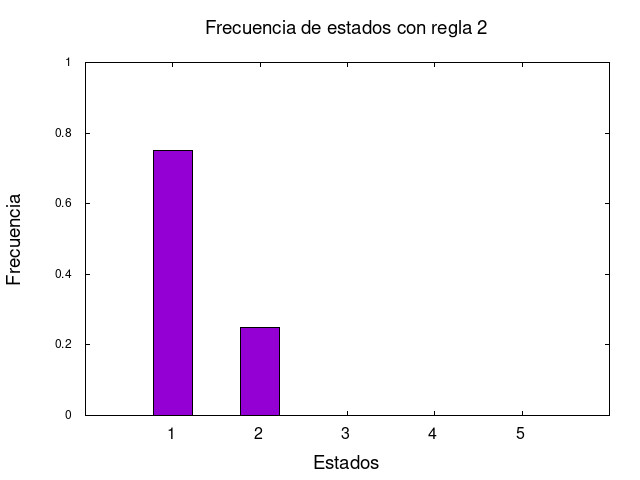
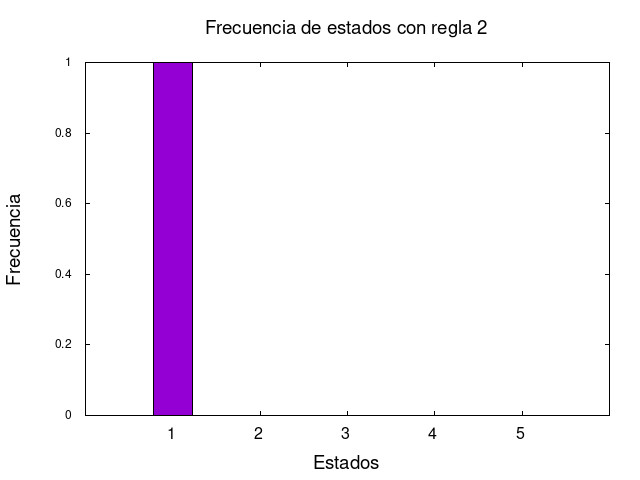
Practica 2. Parte 1. Graficas sin conocer estado actualizadas

Changed region(s): [[0.2188, 0.125, 0.3125, 0.3125], [0.375, 0.6562, 0.4375, 0.875]]

diff --git a/Practica 2/src/estampadora.cpp b/Practica 2/src/estampadora.cpp
@@ -285,10 +285,10 @@ int main (int argc, char *argv[])
             mantenimiento(regla, j+1);
             // 2. Estampar
             estampar();
-            // 3. Calcular siguiente estado
-            estado_actual = siguiente_estado();
-            // 4. Actualizar frecuencia de estados
+            // 3. Actualizar frecuencia de estados
             frecuencia_estados[estado_actual]++;
+            // 4. Calcular siguiente estado
+            estado_actual = siguiente_estado();
         }
         double coste_simulacion = coste / max_estampaciones;
         double media_est_mantenimiento_simulacion = media_est_mantenimiento / num_mantenimientos;
